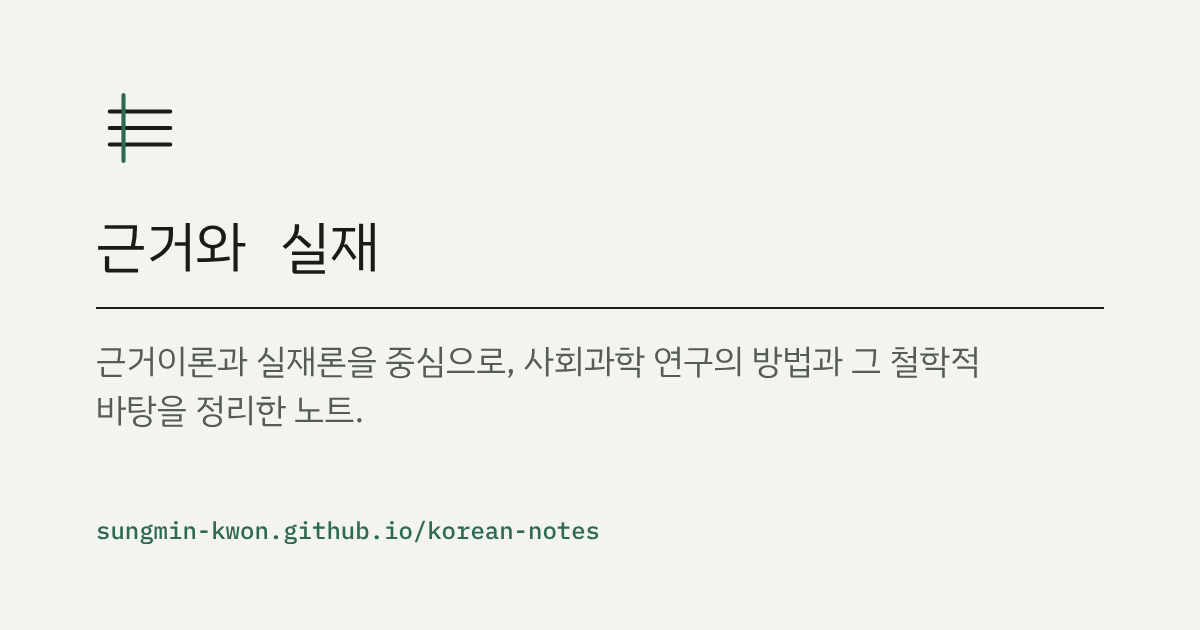
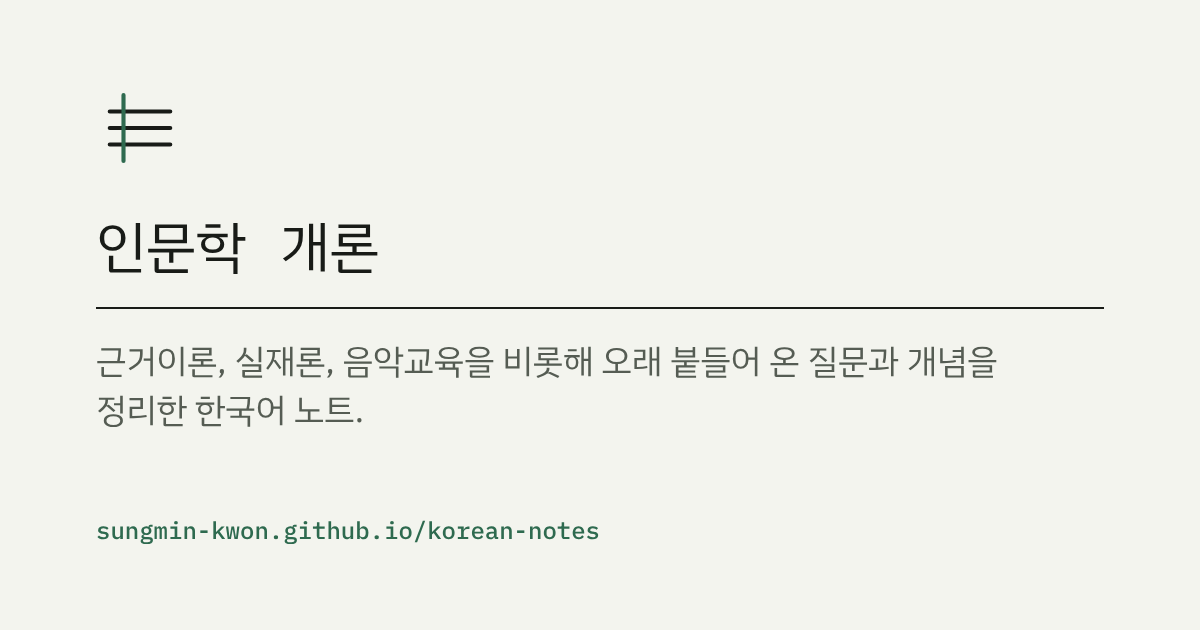
Rename the site to 인문학 개론, replace 방법론 with 음악교육, add a Kodály method note (#15)
* Replace the 방법론 tag with 음악교육 and add a note on the Kodály method

- site.config.mjs: drop the unused 방법론 tag (only the removed sample note used it) and
  redirect /tags/methodology/ to the home page; add 음악교육 (/tags/music-education/).
- New note kodaly-method.md: 이동도법과 계이름, 손기호, 리듬 음절, the teaching order, and
  what changes when the method is used in Korea, cited to Korean papers and IKS/UNESCO pages.
- STYLE-KO.md: music-education terms as Korean literature writes them.
- WRITING.md, README.md: tag list.

Claude-Session: https://claude.ai/code/session_01ACkfxoq3sB2eajLdJ3udDX

* Rename the site to 인문학 개론

The notes now go beyond grounded theory and realism (the new 음악교육 tag), so the title,
description, About text, family entry, README and link-preview card change with it.

Claude-Session: https://claude.ai/code/session_01ACkfxoq3sB2eajLdJ3udDX

---------

Changed region(s): [[0.185, 0.5429, 0.8325, 0.6032], [0.0617, 0.3317, 0.3392, 0.4524], [0.0617, 0.6333, 0.2467, 0.6937]]

diff --git a/src/content/notes/kodaly-method.md b/src/content/notes/kodaly-method.md
@@ -1,0 +1,103 @@
+---
+title: "코다이 교수법: 노래에서 시작해 악보 읽기로"
+summary: 헝가리의 작곡가 졸탄 코다이의 생각에서 나온 음악 교수법을 정리한다. 이동도법과 계이름, 손기호, 리듬 음절이 무엇이고 어떤 순서로 가르치는지를 지어낸 네 마디 가락 하나로 따라가고, 헝가리 민요에서 나온 방법을 한국에 옮길 때 생기는 문제를 국내 연구로 살펴본다.
+date: 2026-11-12
+tags: [음악교육]
+distillate: 코다이 교수법은 음악은 모든 사람의 것이라는 코다이의 생각에서 나온 교수법으로, 아이들이 아는 민요를 부르는 데서 시작해 악보를 읽고 쓰는 데로 나아간다. 이동도법의 계이름, 커웬에게서 가져온 손기호, 프랑스에서 온 리듬 음절이 도구이고, 솔과 미 두 음에서 시작해 라, 도, 레를 더한 5음 음계를 거쳐 파와 시를 배운다. 솔–미–라 세 음으로 된 네 마디 가락은 다장조, 사장조, 바장조 어디서 불러도 계이름이 같아서, 아이는 음 사이의 관계를 먼저 익힌다. 다만 교재가 헝가리 민요에 기대고 있어서, 국내 연구는 한국 전래동요와 국악에 맞게 고쳐 써야 한다고 지적해 왔다.
+model: [Claude Opus 5.5]
+---
+
+**코다이 교수법**(Kodály method)은 헝가리의 작곡가이자 음악교육가인 졸탄 코다이(Zoltán Kodály, 1882–1967)의 생각을 바탕으로 한 음악 교수법이다. 국제코다이협회(International Kodály Society)는 이를 "코다이 개념"(Kodály concept)이라 부르며, 체계적이고 단계적인 음악교육 접근이라고 소개한다. 국내 문헌에서는 "코다이 교수법"이 가장 흔하고, "코다이 음악교수법", "코다이 솔페이지" 같은 이름도 쓴다(서종우, 2008; 양종모, 2022).
+
+이 방법의 출발점은 교수 기법보다 하나의 신념이다. 한국코다이협회는 코다이의 핵심 철학을 "음악은 모든 사람의 것이다"라는 말로 요약하고, 국제코다이협회도 음악은 모든 사람에게 속한다는 민주적 원칙을 그 바탕으로 든다. 소수의 재능 있는 아이만이 아니라 모든 아이가 음악을 부르고 읽고 쓸 수 있어야 한다는 뜻이다. 이 글은 그 신념이 어떤 도구와 순서로 구체화되었는지를 지어낸 가락 하나로 따라간다.
+
+## 헝가리에서 학교로
+
+코다이는 1882년 헝가리 케치케메트(Kecskemét)에서 태어났다(국제코다이협회). 동료 작곡가 바르토크(Béla Bartók)와 함께 헝가리 민요를 모았고, 1925년부터는 음악교육에 본격적으로 관심을 기울였다(한국코다이협회). 송정주(2019)는 헝가리의 고유한 음악 문화가 사라져 가던 상황에서 코다이가 자신이 수집한 노래와 춤을 바탕으로 한 민요 교육을 출발점으로 삼았다고 정리한다.
+
+그의 구상은 헝가리의 학교 제도에 자리 잡았다. 유네스코는 코다이 개념이 1945년부터 헝가리 학교 교육과정에 반영되어 왔다고 적고, 국제코다이협회는 그 실현이 1950년 케치케메트에 첫 음악 초등학교가 세워지면서 본격화되었다고 밝힌다. 2016년 유네스코는 헝가리의 "코다이 개념에 의한 민속음악 유산 보호"(인용자 번역)를 무형유산 보호 모범사례(Register of Good Safeguarding Practices)로 선정했다. 유네스코는 이 사례를 교수법보다는 민속음악을 학교 교육으로 지켜 온 방식으로 소개한다.
+
+## 예시: 솔–미–라로 된 네 마디
+
+이 글은 아래 가락 하나를 끝까지 쓴다. 설명을 위해 지어낸 가락이다. 4분의 2박자, 네 마디이고, 솔, 미, 라 세 음만 쓴다.
+
+| 마디 | 1 | 2 | 3 | 4 |
+| --- | --- | --- | --- | --- |
+| 계이름 | 솔 미 | 솔솔 미 | 솔솔 라라 | 솔 미 |
+| 리듬 음절 | 타 타 | 티티 타 | 티티 티티 | 타 타 |
+
+음은 모두 11개이고, 박은 마디마다 둘씩 모두 8박이다. 솔과 미는 코다이 교수법이 가장 먼저 다루는 두 음이고, 라는 그다음에 더하는 음이다. 김기라(2003)는 솔–미 두 음이나 솔–미–라 세 음으로 된 챈트와 노래 놀이가 헝가리, 미국, 일본 등 여러 나라의 어린이 노래에서 발견된다고 정리한다.
+
+## 이동도법과 계이름
+
+코다이 교수법은 **이동도법**(movable do)으로 노래한다. 으뜸음을 언제나 도로 부르고, 나머지 음도 으뜸음과의 관계에 따라 이름을 붙이는 방식이다. 이렇게 붙인 이름이 **계이름**이고, 한국코다이협회는 이를 상대 계명창이라고도 부른다. 국제코다이협회에 따르면 이동도법의 계이름 읽기는 19세기 영국에서 세라 글러버(Sarah Glover)와 존 커웬(John Curwen)이 노래하는 사람에게 악보 읽기를 가르치는 도구로 쓰던 것이고, 코다이가 이를 받아들였다.
+
+예시 가락을 세 조에서 부르면 차이가 드러난다. 아래 표의 음이름은 각 조의 으뜸음(괄호 안)에서 계산했다.
+
+| 계이름 | 다장조(C) | 사장조(G) | 바장조(F) |
+| --- | --- | --- | --- |
+| 솔 | G(사) | D(라) | C(다) |
+| 미 | E(마) | B(나) | A(가) |
+| 라 | A(가) | E(마) | D(라) |
+
+음이름은 조마다 바뀌지만 계이름은 그대로다. 아이는 어느 조에서든 "솔 미 솔솔 미"를 같은 이름으로 부르고, 솔에서 미로 내려가는 단3도와 솔에서 라로 올라가는 장2도라는 관계를 익힌다. 사장조에서는 계이름 솔이 음이름 라(D)와 같은 음이 되는데, 계이름과 음이름을 나누어 부르는 까닭이 여기에 있다. 고정도법(fixed do)으로 부르면 같은 가락이 조마다 다른 이름으로 불린다.
+
+## 손기호
+
+**손기호**(hand signs)는 계이름마다 정해진 손 모양이다. 국제코다이협회는 커웬이 음계의 각 음에 서로 다른 손기호를 붙였다고 적는다. 노래하면서 손기호를 함께 쓰면, 소리로만 듣던 음의 차이가 손 모양으로 눈에 보인다. 이연경(1990)은 커웬의 손기호가 음 사이의 관계를 익히는 데 도움을 준다고 정리했다.
+
+손기호는 **내청**(inner hearing), 곧 소리를 내지 않고 마음속으로 음을 듣는 능력을 기르는 데도 쓴다(김기라, 2003). 이영미(2002)도 악보 읽기와 내청을 솔페지 활용의 한 갈래로 든다. 예시 가락이라면, 교사가 손기호로만 가락을 보여 주고 아이들은 속으로 따라 부르다가 셋째 마디 라라에서만 소리를 내게 할 수 있다. 아이는 손을 보고 음을 떠올려야 하므로, 소리 없이 음을 머릿속에 그리는 연습이 된다.
+
+## 리듬 음절
+
+리듬은 음높이와 따로, **리듬 음절**로 읽는다. 국제코다이협회에 따르면 이 리듬 이름은 프랑스의 갈랭(Galin), 파리(Paris), 셰베(Chevé)로 이어지는 시가(時價) 이름 체계에서 가져왔고, 4분음표는 ta, 8분음표 둘은 ti-ti로 읽는다. 국내 초등 음악 교과서 자료는 이를 타, 티, 타아, 타아아, 쉼, 쉬, 쉬임처럼 한글로 적는다. 서종우(2008)는 같은 것을 리듬이름이라 부른다.
+
+리듬 음절은 음표의 이름이 아니라 소리의 길이를 부른다. 예시 가락의 둘째 마디 "티티 타"는 짧은 두 음과 긴 한 음이고, 셋째 마디 "티티 티티"는 짧은 음 넷이다. 그래서 아이는 4분음표, 8분음표라는 이름을 배우기 전에도 티티 두 음이 타 한 음과 같은 길이라는 것을 소리로 익힐 수 있다.
+
+## 무엇을 어떤 순서로
+
+코다이 교수법은 쉬운 것에서 어려운 것으로 순서를 정해 가르친다. 김기라(2003)는 솔, 미, 라, 도, 레의 다섯 음을 먼저 가르치고 파와 시는 나중에 다룬다고 정리한다. 반음이 없는 이 다섯 음이 **5음 음계**(pentatonic scale)이고, 이연경(1990)도 5음 음계를 초기 음악 훈련의 기본 재료로 꼽는다. 예시 가락은 그 첫 단계인 솔–미에 라 하나를 더한 단계에 있다.
+
+새 음 하나를 가르치는 과정에도 순서가 있다. Cha(2023)는 코다이 교수법의 단계를 준비, 제시, 연습, 평가로 나누어 초등 수업에 적용했다. 예시 가락으로 라를 가르친다면 다음과 같다.
+
+| 단계 | 예시 가락으로 하는 일 |
+| --- | --- |
+| 준비 | 라가 든 노래를 계이름 없이 여러 번 부르고 놀이로 익힌다. 셋째 마디의 높은 음을 "솔보다 조금 높은 음"으로만 느끼게 한다. |
+| 제시 | 그 음에 라라는 계이름과 손기호를 붙이고, 악보에서 솔 바로 위에 적힌다는 것을 보여 준다. |
+| 연습 | 다른 조와 다른 노래에서 라를 찾고, 손기호로 읽고, 받아 적는다. |
+| 평가 | 처음 보는 솔–미–라 가락을 계이름으로 읽고 부르는지 확인한다. |
+
+여기서 중요한 것은 순서다. 아이는 소리를 먼저 경험하고, 이름과 기호는 그다음에 붙인다. 이름을 먼저 가르치고 소리를 맞추는 순서와 반대다.
+
+## 한국에 옮길 때
+
+코다이 교수법의 교재는 헝가리 민요에서 나왔다. 국제코다이협회는 코다이의 교수법이 학생들의 "음악적 모국어"(musical mother tongue)에 바탕을 둔다고 적는다. 이 원칙을 그대로 따르면, 한국의 아이에게는 헝가리 민요가 아니라 한국의 노래가 출발점이 되어야 한다.
+
+국내 연구는 일찍부터 이 점을 지적했다. 이연경(1990)은 헝가리 민요에 바탕을 둔 코다이의 교재가 처음 국내에 들어왔을 때 적용에 문제가 있었다고 보고, 손기호, 리듬 음절, 듣고 따라 부르기 같은 기법은 고쳐서 쓸 수 있다고 정리했다. 양종모(2022)에 따르면 국내의 코다이 교수법 연구는 1973년 오숙경의 연구에서 시작되었고, 응용 연구는 주로 초등학생을 위한 음악 읽고 쓰기 프로그램에 모여 있다.
+
+국악 쪽에서 보면 문제는 교재만이 아니다. 송혜나(2007)는 이동도법의 계이름으로 노래하는 방법을 초등학교 단소 수업에 적용했다. 한편 이동재(2008)는 국악 제재곡을 지역의 특징이 드러나는 음계로 적고, 조금씩 다른 음은 시김새로 처리하자고 제안한다. 이 제안대로라면, 국악 가락을 계이름으로 읽기 전에 어느 음을 음계의 음으로 적고 어느 음을 시김새로 볼지를 정하는 일이 먼저다. 김혜정(2010)은 말에 가까운 전래동요를 굳이 노래로 고정하지 말고 말처럼 즐기게 하자고 제안한다. 솔–미 챈트에서 시작하는 코다이 교수법의 첫 단계와 견주어 볼 만한 제안이다.
+
+교과서에서는 코다이 교수법이 아직 드물다. 승윤희(2025)는 20세기 음악 교수법이 초등 음악 교과서에 적용된 양상을 분석해, 코다이 교수법의 활용이 가장 낮았지만 4학년 교과서에서 다소 늘었다고 보고했다.
+
+## 정리
+
+코다이 교수법은 음악은 모든 사람의 것이라는 신념을 이동도법, 손기호, 리듬 음절이라는 세 도구와, 솔–미에서 5음 음계를 거쳐 파와 시를 더하는 순서로 바꾸어 놓았다. 예시 가락에서 보았듯이 계이름은 조가 바뀌어도 그대로라서, 아이는 음의 이름보다 음 사이의 관계를 먼저 익힌다. 가르치는 순서는 늘 소리가 먼저고, 이름과 기호가 나중이다. 다만 이 방법의 재료가 헝가리 민요였던 만큼, 한국에서 쓰려면 무엇을 음악적 모국어로 삼을지부터 다시 정해야 한다.
+
+## 참고문헌
+
+- 김기라, 「코다이 교수법에 의한 전래 동요 지도 방안」, 제주대학교 교육대학원 석사학위논문, 2003. [제주대학교 학술저장소](https://oak.jejunu.ac.kr/handle/2020.oak/18972)
+- 김혜정, 「전래동요의 음악적 특성에 따른 교육 방향」, 『국악교육연구』 4(1), 55–79, 2010. [earticle](https://www.earticle.net/Article/A312098)
+- 서종우, 「코다이 솔페이지 학습지도 방안: 초등학교 3학년을 대상으로」, 『음악응용연구』 1, 107–133, 2008. [earticle](https://www.earticle.net/Article/A153659)
+- 송정주, 「자크-달크로즈, 코다이, 오르프의 신체움직임 리듬교육관 형성 배경」, 『음악교육연구』 48(3), 103–127, 2019. [doi:10.30775/KMES.48.3.103](https://doi.org/10.30775/KMES.48.3.103)
+- 송혜나, 「초등학교 단소 수업의 단계적 교수·학습 전략: 코다이의 이동도법에 의한 계이름으로 노래 부르기에 기초하여」, 『음악이론포럼』 14, 81–108, 2007. [KoreaScholar](https://db.koreascholar.com/Article/Detail/335903)
+- 승윤희, 「음악 교과서에 나타난 20세기 음악 교수법의 적용 양상 및 경향에 관한 연구」, 『교원교육』 41(6), 73–96, 2025. [doi:10.14333/KJTE.2025.41.6.04](https://doi.org/10.14333/KJTE.2025.41.6.04)
+- 양종모, 「코다이 교수법 연구의 동향 분석」, 『예술교육연구』 20(1), 51–72, 2022. [RISS](https://m.riss.kr/search/detail/DetailView.do?p_mat_type=1a0202e37d52c72d&control_no=577504935c975cd17ecd42904f0c5d65)
+- 이동재, 「초등학교 음악교과서 국악 제재곡 및 지도내용 선정 방안」, 『국악교육연구』 2(2), 103–126, 2008. [earticle](https://www.earticle.net/Article/A312063)
+- 이연경, 「Kodaly 음악지도법과 국내 적용 방법에 관한 연구」, 『음악교육연구』 9, 57–96, 1990. [교보 스콜라](https://scholar.kyobobook.co.kr/article/detail/4050026247064)
+- 이영미, 「코다이 개념의 솔페지 활용」, 『음악이론포럼』 9, 91–112, 2002. [KoreaScholar](https://db.koreascholar.com/Article/Detail/340469)
+- 한국코다이협회, 「졸탄 코다이」. [kodaly.or.kr](https://www.kodaly.or.kr/%EC%A1%B8%ED%83%84-%EC%BD%94%EB%8B%A4%EC%9D%B4)
+- 초등 음악 교과서 디지털 자료, 「노래에 나오는 리듬꼴을 리듬 음절로 익히고 리듬 악기로 쳐 봅시다」. [m-teacher.co.kr](https://ele2.m-teacher.co.kr/files/contents/5bf4ea22bc185/contents/m03_02/m03_02_06/m03_02_06_07.html)
+- D.-J. Cha, 「음악적 이해의 폭넓은 확장을 위한 코다이 교수법과 상징적 표현 활동의 적용」, 『음악교육연구』 52(4), 189–209, 2023. [kjrme.org](https://www.kjrme.org/detail/30006464)
+- International Kodály Society, "The Kodály Concept". [iks.hu](https://iks.hu/kodaly-concept)
+- International Kodály Society, "Educational Activities". [iks.hu](https://iks.hu/kodaly_education/)
+- UNESCO, "Safeguarding of the folk music heritage by the Kodály concept" (Register of Good Safeguarding Practices, 2016). [ich.unesco.org](https://ich.unesco.org/en/BSP/safeguarding-of-the-folk-music-heritage-by-the-kodaly-concept-01177)

diff --git a/WRITING.md b/WRITING.md
@@ -1,4 +1,4 @@
-# Writing notes for 근거와 실재
+# Writing notes for 인문학 개론
 
 This is the style and accuracy guide for the notes in `src/content/notes/`. It is written so that
 any model, including a small local one, can read it and draft a note that matches the existing
@@ -6,8 +6,8 @@ ones. Read all of it before drafting. If there is room in the context, also read
 note as a model to imitate (see [Reference notes](#reference-notes)).
 
 This site holds notes **in Korean** on grounded theory, realism and the methods and philosophy of
-social science research. The reader is an educated Korean reader who knows social science
-research, but not necessarily this method or school of thought. Write for that reader.
+social science research, and on music education. The reader is an educated Korean reader who knows
+the field in general, but not necessarily this method or school of thought. Write for that reader.
 
 This guide is in English so that any model can follow it, but **the notes themselves are written
 in Korean** (section 1a). The guide is shared with the other sites in the family. The parts that
@@ -111,7 +111,7 @@ it breaks links.
 title: Forward vs. reverse KL          # omit for a short note
 date: 2026-11-12                       # required, YYYY-MM-DD
 updated: 2026-11-20                    # only when a published note changes materially
-tags: [근거이론]                        # 근거이론, 실재론, 방법론; zero or more
+tags: [근거이론]                        # 근거이론, 실재론, 음악교육; zero or more
 summary: One line for the index.       # long notes
 distillate: The boiled-down version.   # long notes
 rough: true                            # unfinished thinking; leave out otherwise
@@ -123,8 +123,8 @@ reviewed_by: [Claude Opus 5.5]         # optional: model(s) that did a separate 
 ```
 
 - **Tags:** only these three: `근거이론` (grounded theory and its variants), `실재론` (realism,
-  above all critical realism, as a philosophy of social science) and `방법론` (research design and
-  other research interests that fit neither). The list lives in `site.config.mjs`, where each tag
+  above all critical realism, as a philosophy of social science) and `음악교육` (music education:
+  teaching methods such as Kodály's and the ideas behind them). The list lives in `site.config.mjs`, where each tag
   also has a Latin `slug` for its URL (`/tags/grounded-theory/`). The build fails on any other
   tag. Don't invent new tags; ask first.
 - **File names** are in Latin letters and kebab-case, even for a Korean note
@@ -424,7 +424,7 @@ errors. These rules matter more than anything above.
 title: <Short noun phrase or question>
 summary: <What it covers, in one line> — <part>, <part>, <part>.
 date: YYYY-MM-DD
-tags: [<근거이론|실재론|방법론>]
+tags: [<근거이론|실재론|음악교육>]
 distillate: <The answer in one sentence.> <The key number from the worked example.> <The main limit or caveat.>
 model: [<the model writing this>]
 ---

diff --git a/STYLE-KO.md b/STYLE-KO.md
@@ -75,13 +75,20 @@
 | structure and agency | 구조와 행위주체 | 행위성이라고도 한다 |
 | positivism / interpretivism | 실증주의 / 해석주의 | |
 | mixed methods | 혼합연구방법 | |
+| Kodály method / concept | 코다이 교수법 | 국내 문헌에서 가장 흔한 이름이다(양종모, 2022). 코다이 음악교수법, 코다이 개념이라고도 한다 |
+| movable do / fixed do | 이동도법 / 고정도법 | 서종우(2008) |
+| solfa syllables | 계이름 | 음이름(C, D… / 다, 라…)과 구분한다. 한국코다이협회는 상대 계명창이라고 쓴다 |
+| hand signs | 손기호 | 커웬의 손기호. 손 기호로 띄어 쓰기도 한다(서종우, 2008) |
+| rhythm syllables | 리듬 음절 | 초등 음악 교과서의 표기다(타, 티티, 타아, 쉼). 리듬이름이라고도 한다(서종우, 2008) |
+| pentatonic scale | 5음 음계 | |
+| inner hearing | 내청 | |
 
 ### 사람 이름
 
 - 외국 학자의 이름은 **외래어 표기법**에 따라 한글로 적고, 처음 나올 때 원어 이름을 괄호에 쓴다:
   로이 바스카(Roy Bhaskar), 그 뒤로는 성만: 바스카.
 - 이 사이트의 표기: 글레이저(Glaser), 스트라우스(Strauss), 코빈(Corbin), 차마즈(Charmaz),
-  바스카(Bhaskar), 세이어(Sayer), 아처(Archer).
+  바스카(Bhaskar), 세이어(Sayer), 아처(Archer), 코다이(Kodály), 커웬(Curwen).
 - 한국 학자는 처음부터 한글 이름을 쓴다. 존칭(교수, 선생)은 붙이지 않는다.
 
 ## 3. 문장 부호

diff --git a/README.md b/README.md
@@ -1,7 +1,7 @@
-# 근거와 실재
+# 인문학 개론
 
-Source for a Korean-language notebook on grounded theory, realism and the methods and philosophy
-of social science research, published at <https://sungmin-kwon.github.io/korean-notes/>.
+Source for a Korean-language notebook on grounded theory, realism, the methods and philosophy
+of social science research, and music education, published at <https://sungmin-kwon.github.io/korean-notes/>.
 
 It is one of a family of sites built from the same code. The siblings are
 [notes from the 3-way distiller](https://github.com/sungmin-kwon/3-way-distillation) and
@@ -37,7 +37,7 @@ A longer note adds a title and, optionally, more:
 title: 이론적 표집
 date: 2026-11-12
 updated: 2026-11-20      # optional
-tags: [근거이론]          # 근거이론, 실재론 or 방법론; the list is in site.config.mjs
+tags: [근거이론]          # 근거이론, 실재론 or 음악교육; the list is in site.config.mjs
 summary: 목록에서 제목 아래에 보이는 한 줄.
 distillate: 글의 요지. 글 첫머리의 '요지' 상자에 보인다.
 rough: true              # unfinished thinking; shows a "미완" mark

diff --git a/ADMIN.md b/ADMIN.md
@@ -4,10 +4,11 @@ Every note in `src/content/notes/`, including the ones not on the site.
 Generated by `npm run admin` (also runs before every build); don't edit by hand.
 This file is not deployed, but the repository is public, so anyone can read it and the hidden notes' source.
 
-2 notes: 2 visible, 0 hidden, 0 draft.
+3 notes: 3 visible, 0 hidden, 0 draft.
 
 | status | date | note | tags | model |
 | --- | --- | --- | --- | --- |
+| visible | 2026-11-12 | [코다이 교수법: 노래에서 시작해 악보 읽기로](src/content/notes/kodaly-method.md) | 음악교육 | Claude Opus 5.5 |
 | visible | 2026-11-11 | [근거이론의 두 갈래: 글레이저와 스트라우스·코빈](src/content/notes/glaserian-emergence-vs-forcing.md) | 근거이론 | Mistral Large 4, Claude Opus 5.5 |
 | visible | 2026-11-11 | [소박 실재론과 비판적 실재론: 같은 평균, 다른 실재](src/content/notes/naive-realism.md) | 실재론 | Mistral Large 4, Claude Opus 5.5 |
 

diff --git a/SHARED.md b/SHARED.md
@@ -4,7 +4,7 @@ Each site is one of a family of notebook sites built from the same code:
 
 - [notes from the 3-way distiller](https://github.com/sungmin-kwon/3-way-distillation)
 - [working notes](https://github.com/sungmin-kwon/working-notes)
-- [근거와 실재](https://github.com/sungmin-kwon/korean-notes), in Korean
+- [인문학 개론](https://github.com/sungmin-kwon/korean-notes), in Korean
 
 To keep a fix from having to be made three times, every
 setting that differs between the sites lives in `site.config.mjs`, and the rest of the code is
